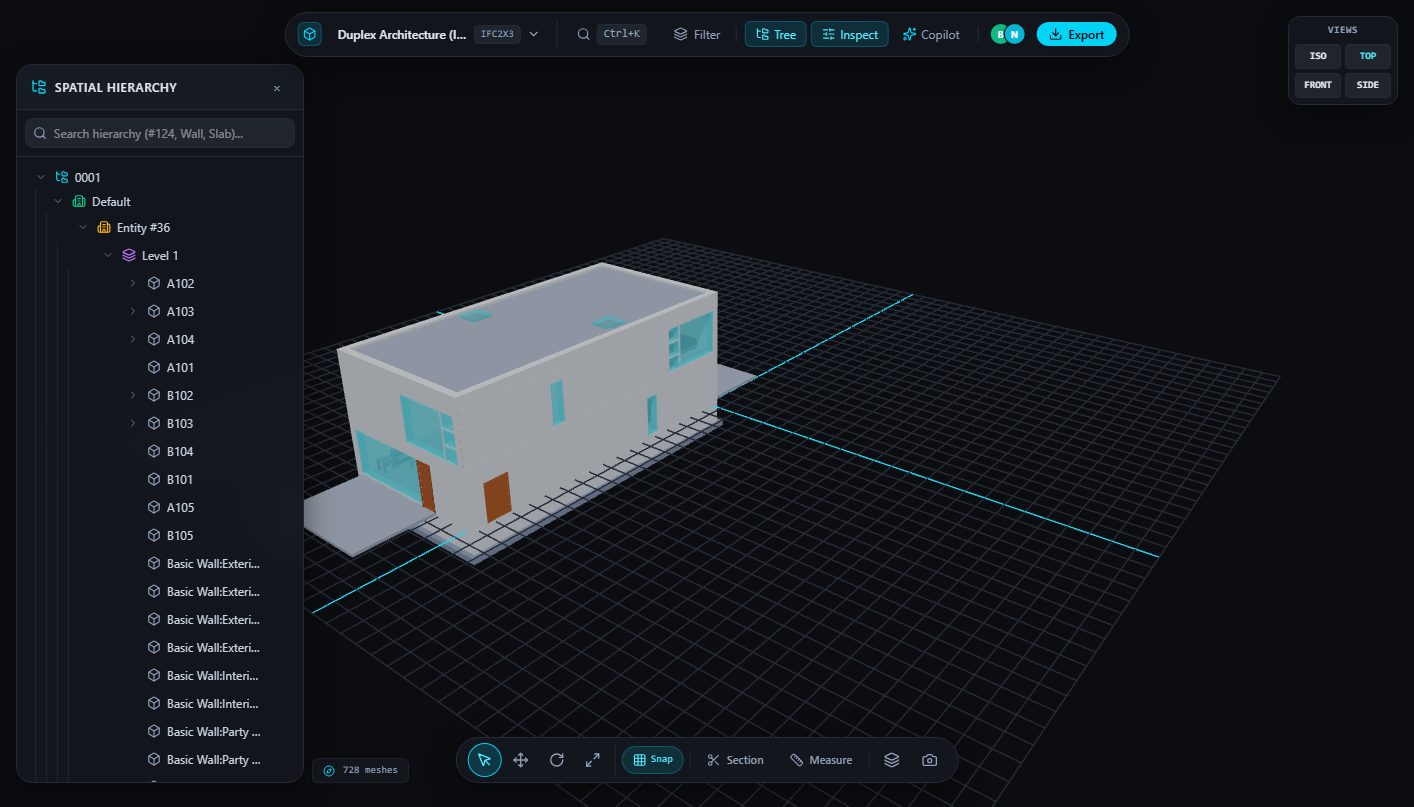
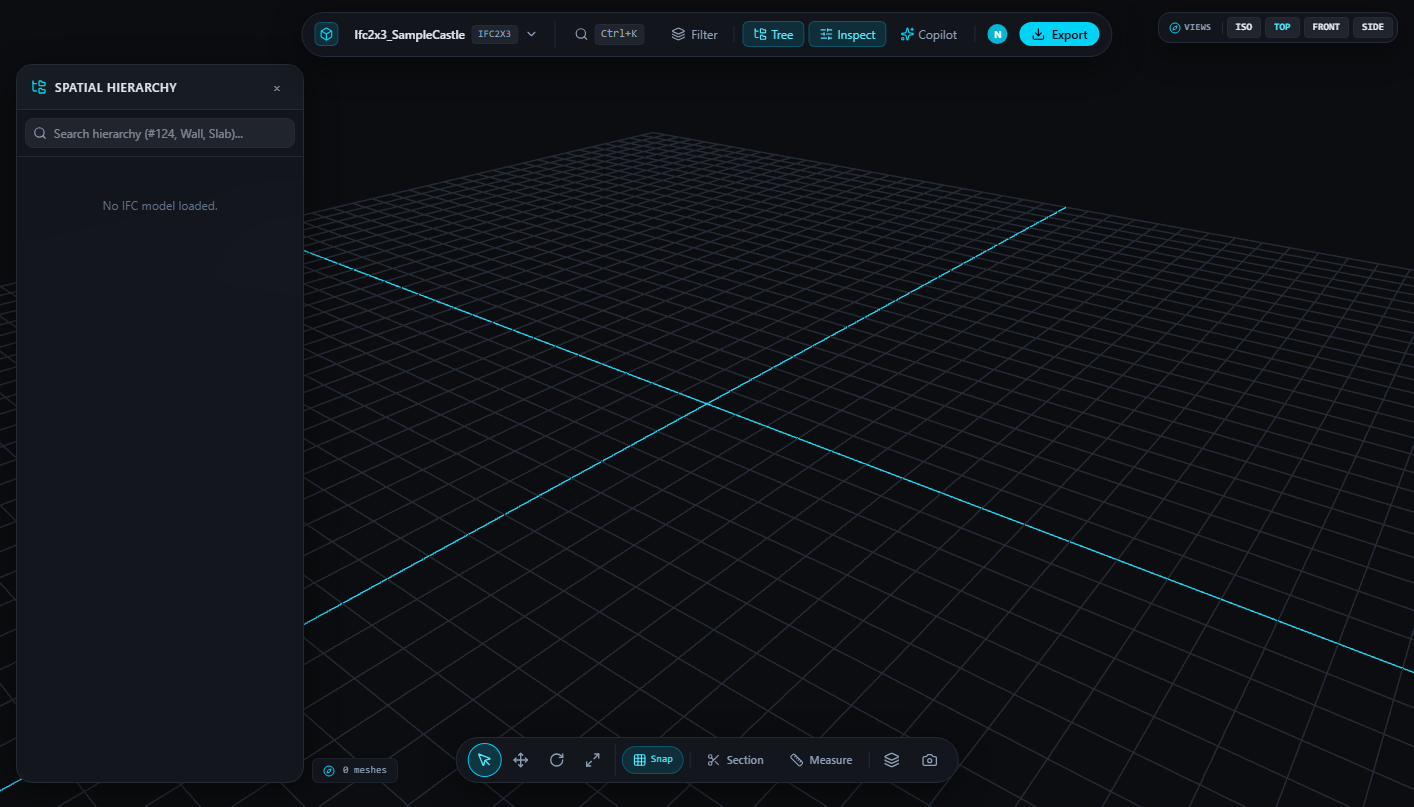
fix(layout): resolve views shortcuts overlap and eliminate console-wide reload interrupts

diff --git a/frontend/src/components/viewer/ThreeViewport.tsx b/frontend/src/components/viewer/ThreeViewport.tsx
@@ -2,6 +2,7 @@ import React, { useEffect, useRef, useCallback, useState } from 'react';
 import * as THREE from 'three';
 import { OrbitControls } from 'three/examples/jsm/controls/OrbitControls.js';
 import { TransformControls } from 'three/examples/jsm/controls/TransformControls.js';
+import { Compass } from 'lucide-react';
 import type { GeometryData } from '../../types/ifc';
 import type { CameraPreset, RenderStyle, SectionPlaneConfig } from '../tools/BimToolsToolbar';
 
@@ -162,8 +163,8 @@ export const ThreeViewport: React.FC<ThreeViewportProps> = ({
   renderStyle,
   elementLocks = {},
   remoteTransform,
-  isRightDrawerOpen = false,
-  rightDrawerWidth = 320
+  isRightDrawerOpen: _isRightDrawerOpen = false,
+  rightDrawerWidth: _rightDrawerWidth = 320
 }) => {
   const containerRef = useRef<HTMLDivElement>(null);
   const sceneRef = useRef<THREE.Scene | null>(null);
@@ -980,42 +981,41 @@ export const ThreeViewport: React.FC<ThreeViewportProps> = ({
 
       {/* 3D Viewport Orientation Triad / Quick-View Gizmo (Top-Right) */}
       <div
-        style={{ right: isRightDrawerOpen ? `${rightDrawerWidth + 24}px` : '1rem' }}
-        className="absolute top-4 z-10 flex flex-col items-center gap-1.5 p-1.5 rounded-xl bg-[var(--dock-translucent)] backdrop-blur-xl border border-[var(--border-subtle)] shadow-[var(--shadow-hud)] select-none transition-[right] duration-200"
+        className="fixed top-3 right-4 z-30 flex items-center gap-1 p-1 rounded-xl bg-[var(--dock-translucent)] backdrop-blur-xl border border-[var(--border-subtle)] shadow-[var(--shadow-hud)] select-none text-[10px] font-mono"
       >
-        <div className="flex items-center gap-1 text-[10px] font-mono text-slate-400 px-1 font-semibold uppercase tracking-wider">
-          <span>Views</span>
+        <div className="flex items-center gap-1 text-slate-400 px-1.5 font-semibold uppercase tracking-wider text-[9px]">
+          <Compass className="w-3 h-3 text-cyan-400" />
+          <span className="hidden sm:inline">Views</span>
         </div>
-        <div className="grid grid-cols-2 gap-1 w-24 text-[10px] font-mono">
-          <button
-            onClick={() => onCameraPreset && onCameraPreset('iso')}
-            className="px-1.5 py-1 rounded bg-[var(--control-bg)] hover:bg-[var(--control-hover)] text-slate-200 border border-[var(--border-subtle)] transition-colors text-center font-bold"
-            title="Isometric 3D"
-          >
-            ISO
-          </button>
-          <button
-            onClick={() => onCameraPreset && onCameraPreset('top')}
-            className="px-1.5 py-1 rounded bg-[var(--control-bg)] hover:bg-[var(--control-hover)] text-cyan-300 border border-[var(--border-subtle)] transition-colors text-center font-bold"
-            title="Top Floor Plan View"
-          >
-            TOP
-          </button>
-          <button
-            onClick={() => onCameraPreset && onCameraPreset('front')}
-            className="px-1.5 py-1 rounded bg-[var(--control-bg)] hover:bg-[var(--control-hover)] text-slate-200 border border-[var(--border-subtle)] transition-colors text-center font-bold"
-            title="Front Elevation View"
-          >
-            FRONT
-          </button>
-          <button
-            onClick={() => onCameraPreset && onCameraPreset('side')}
-            className="px-1.5 py-1 rounded bg-[var(--control-bg)] hover:bg-[var(--control-hover)] text-slate-200 border border-[var(--border-subtle)] transition-colors text-center font-bold"
-            title="Side Elevation View"
-          >
-            SIDE
-          </button>
-        </div>
+        <div className="h-3 w-[1px] bg-[var(--border-subtle)]" />
+        <button
+          onClick={() => onCameraPreset && onCameraPreset('iso')}
+          className="px-2 py-0.5 rounded bg-[var(--control-bg)] hover:bg-[var(--control-hover)] text-slate-200 border border-[var(--border-subtle)] transition-colors text-center font-bold"
+          title="Isometric 3D"
+        >
+          ISO
+        </button>
+        <button
+          onClick={() => onCameraPreset && onCameraPreset('top')}
+          className="px-2 py-0.5 rounded bg-[var(--control-bg)] hover:bg-[var(--control-hover)] text-cyan-300 border border-[var(--border-subtle)] transition-colors text-center font-bold"
+          title="Top Floor Plan View"
+        >
+          TOP
+        </button>
+        <button
+          onClick={() => onCameraPreset && onCameraPreset('front')}
+          className="px-2 py-0.5 rounded bg-[var(--control-bg)] hover:bg-[var(--control-hover)] text-slate-200 border border-[var(--border-subtle)] transition-colors text-center font-bold"
+          title="Front Elevation View"
+        >
+          FRONT
+        </button>
+        <button
+          onClick={() => onCameraPreset && onCameraPreset('side')}
+          className="px-2 py-0.5 rounded bg-[var(--control-bg)] hover:bg-[var(--control-hover)] text-slate-200 border border-[var(--border-subtle)] transition-colors text-center font-bold"
+          title="Side Elevation View"
+        >
+          SIDE
+        </button>
       </div>
 
       {/* Measure Mode Banner */}

diff --git a/frontend/src/App.tsx b/frontend/src/App.tsx
@@ -83,6 +83,9 @@ export const App: React.FC = () => {
   const [isTreeOpen, setIsTreeOpen] = useState(true);
   const [isPropertyOpen, setIsPropertyOpen] = useState(true);
   const [isCopilotOpen, setIsCopilotOpen] = useState(false);
+  const [treeWidth, setTreeWidth] = useState(288);
+  const [propertyWidth, setPropertyWidth] = useState(320);
+  const [copilotWidth, setCopilotWidth] = useState(384);
   const [isUploadModalOpen, setIsUploadModalOpen] = useState(false);
   const [isNewProjectModalOpen, setIsNewProjectModalOpen] = useState(false);
   const [isOmnibarOpen, setIsOmnibarOpen] = useState(false);
@@ -464,6 +467,9 @@ export const App: React.FC = () => {
     [handleDownloadProject]
   );
 
+  const isRightDrawerOpen = Boolean((isPropertyOpen && selectedExpressID !== null) || isCopilotOpen);
+  const activeRightDrawerWidth = isCopilotOpen ? copilotWidth : propertyWidth;
+
   return (
     <div className="relative w-screen h-screen bg-[var(--canvas-bg)] text-slate-100 overflow-hidden font-sans select-none">
       {/* 1. 100% Viewport Canvas (Full window immersion) */}
@@ -488,7 +494,8 @@ export const App: React.FC = () => {
           renderStyle={renderStyle}
           elementLocks={elementLocks}
           remoteTransform={remoteTransform}
-          isRightDrawerOpen={Boolean((isPropertyOpen && selectedExpressID !== null) || isCopilotOpen)}
+          isRightDrawerOpen={isRightDrawerOpen}
+          rightDrawerWidth={activeRightDrawerWidth}
         />
       </div>
 
@@ -523,6 +530,7 @@ export const App: React.FC = () => {
         onToggleIsolate={setIsolatedExpressID}
         isOpen={isTreeOpen}
         onToggleOpen={() => setIsTreeOpen(false)}
+        onWidthChange={setTreeWidth}
       />
 
       {/* 4. Floating Right Property Inspector Drawer */}
@@ -533,6 +541,7 @@ export const App: React.FC = () => {
           isOpen={isPropertyOpen}
           onClose={() => setIsPropertyOpen(false)}
           transformInfo={transformInfo}
+          onWidthChange={setPropertyWidth}
         />
       )}
 
@@ -543,6 +552,7 @@ export const App: React.FC = () => {
         projectId={currentProject?.id || ''}
         selectedExpressId={selectedExpressID}
         onModelModified={handleModelModifiedByCopilot}
+        onWidthChange={setCopilotWidth}
       />
 
       {/* 6. Contextual Floating Tool Dock (Bottom Center) */}
@@ -568,6 +578,7 @@ export const App: React.FC = () => {
         transformInfo={transformInfo}
         elementCount={geometries.length}
         isTreeOpen={isTreeOpen}
+        treeWidth={treeWidth}
       />
 
       {/* 8. Command Palette / Spatial Omnibar (Ctrl+K) */}
@@ -608,7 +619,9 @@ export const App: React.FC = () => {
 
       {/* Non-blocking Soft Lock Alert Notification */}
       {lockNotification && (
-        <div className="fixed top-16 right-6 z-50 flex items-center gap-2.5 px-4 py-2 rounded-xl bg-[var(--dock-bg)] border border-amber-500/40 text-amber-200 text-xs shadow-[var(--shadow-hud)] backdrop-blur-md animate-in fade-in-50 slide-in-from-top-2 select-none">
+        <div className={`fixed left-1/2 -translate-x-1/2 z-50 flex items-center gap-2.5 px-4 py-2 rounded-xl bg-[var(--dock-bg)] border border-amber-500/40 text-amber-200 text-xs shadow-[var(--shadow-hud)] backdrop-blur-md transition-all duration-200 select-none animate-in fade-in-50 slide-in-from-top-2 ${
+          isMeasureActive ? 'top-28' : 'top-16'
+        }`}>
           <Lock className="w-3.5 h-3.5 text-amber-400 shrink-0" />
           <span>
             Element <strong className="font-mono text-cyan-300">#{lockNotification.expressID}</strong> is being edited by{' '}

diff --git a/frontend/src/components/properties/PropertyInspector.tsx b/frontend/src/components/properties/PropertyInspector.tsx
@@ -22,6 +22,7 @@ interface PropertyInspectorProps {
   onClose: () => void;
   onPropertyUpdated?: () => void;
   transformInfo?: { position: [number, number, number]; rotation: [number, number, number] } | null;
+  onWidthChange?: (width: number) => void;
 }
 
 export const PropertyInspector: React.FC<PropertyInspectorProps> = ({
@@ -30,7 +31,8 @@ export const PropertyInspector: React.FC<PropertyInspectorProps> = ({
   isOpen,
   onClose,
   onPropertyUpdated,
-  transformInfo
+  transformInfo,
+  onWidthChange
 }) => {
   const [details, setDetails] = useState<ElementDetails | null>(null);
   const [isLoading, setIsLoading] = useState(false);
@@ -45,6 +47,12 @@ export const PropertyInspector: React.FC<PropertyInspectorProps> = ({
     storageKey: 'ifc_editor_property_inspector_width',
     direction: 'left'
   });
+
+  useEffect(() => {
+    if (onWidthChange && isOpen && expressId !== null) {
+      onWidthChange(width);
+    }
+  }, [width, isOpen, expressId, onWidthChange]);
 
   // New property form state
   const [showAddProp, setShowAddProp] = useState(false);
@@ -194,7 +202,7 @@ export const PropertyInspector: React.FC<PropertyInspectorProps> = ({
   return (
     <aside
       style={{ width: `${width}px` }}
-      className="fixed right-4 top-16 bottom-6 z-20 flex flex-col bg-[var(--dock-translucent)] backdrop-blur-xl border border-[var(--border-subtle)] rounded-2xl shadow-[var(--shadow-hud)] text-slate-200 overflow-hidden transition-all duration-200 animate-in fade-in-50 slide-in-from-right-4"
+      className="fixed right-4 top-16 bottom-6 z-30 flex flex-col bg-[var(--dock-translucent)] backdrop-blur-xl border border-[var(--border-subtle)] rounded-2xl shadow-[var(--shadow-hud)] text-slate-200 overflow-hidden transition-all duration-200 animate-in fade-in-50 slide-in-from-right-4"
     >
       <ResizeHandle
         position="left"

diff --git a/frontend/src/components/copilot/CopilotSidebar.tsx b/frontend/src/components/copilot/CopilotSidebar.tsx
@@ -27,6 +27,7 @@ interface CopilotSidebarProps {
   projectId: string;
   selectedExpressId: number | null;
   onModelModified: () => void;
+  onWidthChange?: (width: number) => void;
 }
 
 const DEFAULT_MESSAGES: ChatMessage[] = [
@@ -51,7 +52,8 @@ export const CopilotSidebar: React.FC<CopilotSidebarProps> = ({
   onClose,
   projectId,
   selectedExpressId,
-  onModelModified
+  onModelModified,
+  onWidthChange
 }) => {
   const [messages, setMessages] = useState<ChatMessage[]>(() => {
     try {
@@ -216,6 +218,12 @@ export const CopilotSidebar: React.FC<CopilotSidebarProps> = ({
     }
   };
 
+  useEffect(() => {
+    if (onWidthChange && isOpen) {
+      onWidthChange(width);
+    }
+  }, [width, isOpen, onWidthChange]);
+
   const currentProvider = providers.find((p) => p.id === selectedProviderId);
 
   const hasActiveKey = React.useMemo(() => {
@@ -227,6 +235,8 @@ export const CopilotSidebar: React.FC<CopilotSidebarProps> = ({
     if (selectedProviderId === 'openai' && config.openaiKey.trim()) return true;
     return false;
   }, [currentProvider, selectedProviderId, config]);
+
+  if (!isOpen) return null;
 
   return (
     <>
@@ -253,6 +263,11 @@ export const CopilotSidebar: React.FC<CopilotSidebarProps> = ({
                   <>
                     <span className="inline-block w-1.5 h-1.5 rounded-full bg-cyan-400" />
                     <span className="text-cyan-300 font-mono">Offline CAD Engine</span>
+                  </>
+                ) : selectedProviderId === 'ollama' ? (
+                  <>
+                    <span className="inline-block w-1.5 h-1.5 rounded-full bg-slate-400" />
+                    <span className="text-slate-300 font-mono">Local Port 11434</span>
                   </>
                 ) : hasActiveKey ? (
                   <>

diff --git a/frontend/src/components/tree/SpatialTree.tsx b/frontend/src/components/tree/SpatialTree.tsx
@@ -22,6 +22,7 @@ interface SpatialTreeProps {
   onToggleIsolate: (expressID: number | null) => void;
   isOpen: boolean;
   onToggleOpen: () => void;
+  onWidthChange?: (width: number) => void;
 }
 
 export const SpatialTree: React.FC<SpatialTreeProps> = ({
@@ -31,7 +32,8 @@ export const SpatialTree: React.FC<SpatialTreeProps> = ({
   isolatedExpressID,
   onToggleIsolate,
   isOpen,
-  onToggleOpen
+  onToggleOpen,
+  onWidthChange
 }) => {
   const [searchTerm, setSearchTerm] = useState('');
   const [expandedNodes, setExpandedNodes] = useState<Set<number>>(new Set([0]));
@@ -56,6 +58,12 @@ export const SpatialTree: React.FC<SpatialTreeProps> = ({
     storageKey: 'ifc_editor_spatial_tree_width',
     direction: 'right'
   });
+
+  useEffect(() => {
+    if (onWidthChange && isOpen) {
+      onWidthChange(width);
+    }
+  }, [width, isOpen, onWidthChange]);
 
   const toggleExpand = (expressID: number, e: React.MouseEvent) => {
     e.stopPropagation();

diff --git a/scripts/capture_render.py b/scripts/capture_render.py
@@ -67,18 +67,93 @@ async def capture():
             print("Waiting 6s for IFC model loading & WebAssembly worker...")
             await asyncio.sleep(6)
 
-            # Capture screenshot
-            print("Capturing viewport screenshot...")
+            # Capture screenshot with Copilot closed
+            print("Capturing viewport screenshot (Copilot closed)...")
             await ws.send(json.dumps({"id": 3, "method": "Page.captureScreenshot", "params": {"format": "png"}}))
             while True:
                 resp = await ws.recv()
                 data = json.loads(resp)
                 if data.get("id") == 3:
-                    img_b64 = data["result"]["data"]
-                    img_bytes = base64.b64decode(img_b64)
+                    img_bytes = base64.b64decode(data["result"]["data"])
                     OUTPUT_PNG.write_bytes(img_bytes)
                     print(f"Screenshot written to {OUTPUT_PNG} ({len(img_bytes)} bytes).")
-                    return True
+                    break
+
+            # Click Copilot button
+            print("Opening Copilot sidebar...")
+            click_code = """
+            (() => {
+                const btns = Array.from(document.querySelectorAll('button'));
+                const c = btns.find(b => b.textContent && b.textContent.includes('Copilot'));
+                if (c) { c.click(); return true; }
+                return false;
+            })()
+            """
+            await ws.send(json.dumps({"id": 4, "method": "Runtime.evaluate", "params": {"expression": click_code, "returnByValue": True}}))
+            while True:
+                resp = await ws.recv()
+                data = json.loads(resp)
+                if data.get("id") == 4:
+                    print(f"Copilot click result: {data.get('result', {}).get('result', {}).get('value')}")
+                    break
+
+            await asyncio.sleep(1.5)
+
+            # Capture screenshot with Copilot open
+            open_png = Path("edge_canvas_copilot_open.png")
+            print("Capturing viewport screenshot (Copilot open)...")
+            await ws.send(json.dumps({"id": 5, "method": "Page.captureScreenshot", "params": {"format": "png"}}))
+            while True:
+                resp = await ws.recv()
+                data = json.loads(resp)
+                if data.get("id") == 5:
+                    img_bytes = base64.b64decode(data["result"]["data"])
+                    open_png.write_bytes(img_bytes)
+                    print(f"Screenshot written to {open_png} ({len(img_bytes)} bytes).")
+                    break
+
+            # Evaluate bounding box overlaps
+            overlap_check_code = """
+            (() => {
+                const getRect = (el) => el ? el.getBoundingClientRect() : null;
+                const overlaps = (r1, r2) => {
+                    if (!r1 || !r2) return false;
+                    return !(r1.right <= r2.left || r1.left >= r2.right || r1.bottom <= r2.top || r1.top >= r2.bottom);
+                };
+
+                const isoBtn = Array.from(document.querySelectorAll('button')).find(b => b.textContent && b.textContent.trim() === 'ISO');
+                const viewsWidget = isoBtn ? isoBtn.parentElement : null;
+
+                const copilotTitle = Array.from(document.querySelectorAll('span')).find(s => s.textContent && s.textContent.includes('AI BIM Copilot'));
+                const copilotSidebar = copilotTitle ? copilotTitle.closest('.fixed') : null;
+
+                const topPill = document.querySelector('header');
+
+                const rViews = getRect(viewsWidget);
+                const rCopilot = getRect(copilotSidebar);
+                const rTop = getRect(topPill);
+
+                return {
+                    viewsRect: rViews ? { top: rViews.top, bottom: rViews.bottom, left: rViews.left, right: rViews.right } : null,
+                    copilotRect: rCopilot ? { top: rCopilot.top, bottom: rCopilot.bottom, left: rCopilot.left, right: rCopilot.right } : null,
+                    viewsOverlapsCopilot: overlaps(rViews, rCopilot),
+                    viewsOverlapsTopPill: overlaps(rViews, rTop)
+                };
+            })()
+            """
+            await ws.send(json.dumps({"id": 6, "method": "Runtime.evaluate", "params": {"expression": overlap_check_code, "returnByValue": True}}))
+            while True:
+                resp = await ws.recv()
+                data = json.loads(resp)
+                if data.get("id") == 6:
+                    res = data.get("result", {}).get("result", {}).get("value", {})
+                    print("Bounding Box Overlap Analysis:", json.dumps(res, indent=2))
+                    assert not res.get("viewsOverlapsCopilot"), "Views overlaps Copilot!"
+                    assert not res.get("viewsOverlapsTopPill"), "Views overlaps Top Pill!"
+                    print("VERIFICATION SUCCESSFUL: 0 Overlaps Detected!")
+                    break
+
+            return True
     finally:
         proc.terminate()
         try:
